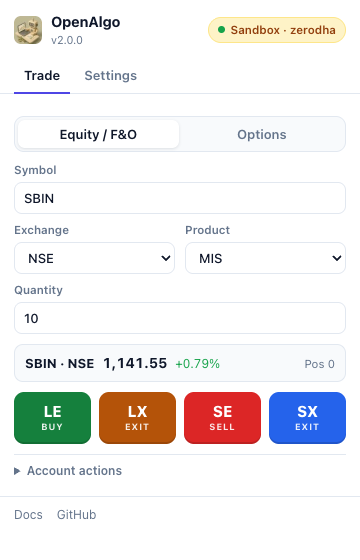
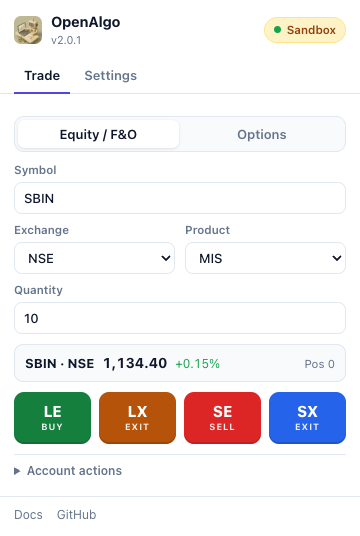
v2.0.1: keep the Test connection button from clipping; mask broker in screenshot
- popup.css: buttons in a row no longer shrink, so a long connection result
  ("Connected to <broker> · Sandbox") wraps beside the button instead of
  squeezing its label.
- README popup screenshot no longer shows a broker name.

diff --git a/popup.css b/popup.css
@@ -180,7 +180,8 @@ details.danger[open] > * + * { margin-top: 8px; }
 .danger-btn.armed { background: var(--bad); border-color: var(--bad); color: #fff; }
 
 /* ----------------------------------------------------------- settings -- */
-.test-result { font-size: 12px; font-weight: 600; }
+.test-result { flex: 1; min-width: 0; font-size: 12px; font-weight: 600; }
+.row > .btn { flex: none; white-space: nowrap; }
 .test-result.ok { color: var(--ok); }
 .test-result.bad { color: var(--bad); }
 .switch { display: flex; align-items: center; gap: 10px; padding: 6px 0; cursor: pointer; }

diff --git a/README.md b/README.md
@@ -14,7 +14,7 @@ One-click trading buttons for your own [OpenAlgo](https://openalgo.in) server, o
 
 ## Install
 
-1. Download `openalgo-chrome-v2.0.0.zip` from [Releases](https://github.com/marketcalls/openalgo-chrome/releases) and unzip it, or clone this repository.
+1. Download the latest `openalgo-chrome-v<version>.zip` from [Releases](https://github.com/marketcalls/openalgo-chrome/releases) and unzip it, or clone this repository.
 2. Open `chrome://extensions` and switch on **Developer mode** (top right).
 3. Click **Load unpacked** and select the unzipped folder.
 4. The settings page opens automatically. Pin the OpenAlgo icon to your toolbar for quick access.

diff --git a/CHANGELOG.md b/CHANGELOG.md
@@ -1,5 +1,11 @@
 # Changelog
 
+## 2.0.1 (2026-11-25)
+
+### Fixed
+- Settings: the **Test connection** button no longer gets squeezed and clipped when the connection result is long; the result now wraps beside it.
+- README screenshot no longer shows a broker name.
+
 ## 2.0.0 (2026-11-25)
 
 ### Fixed
